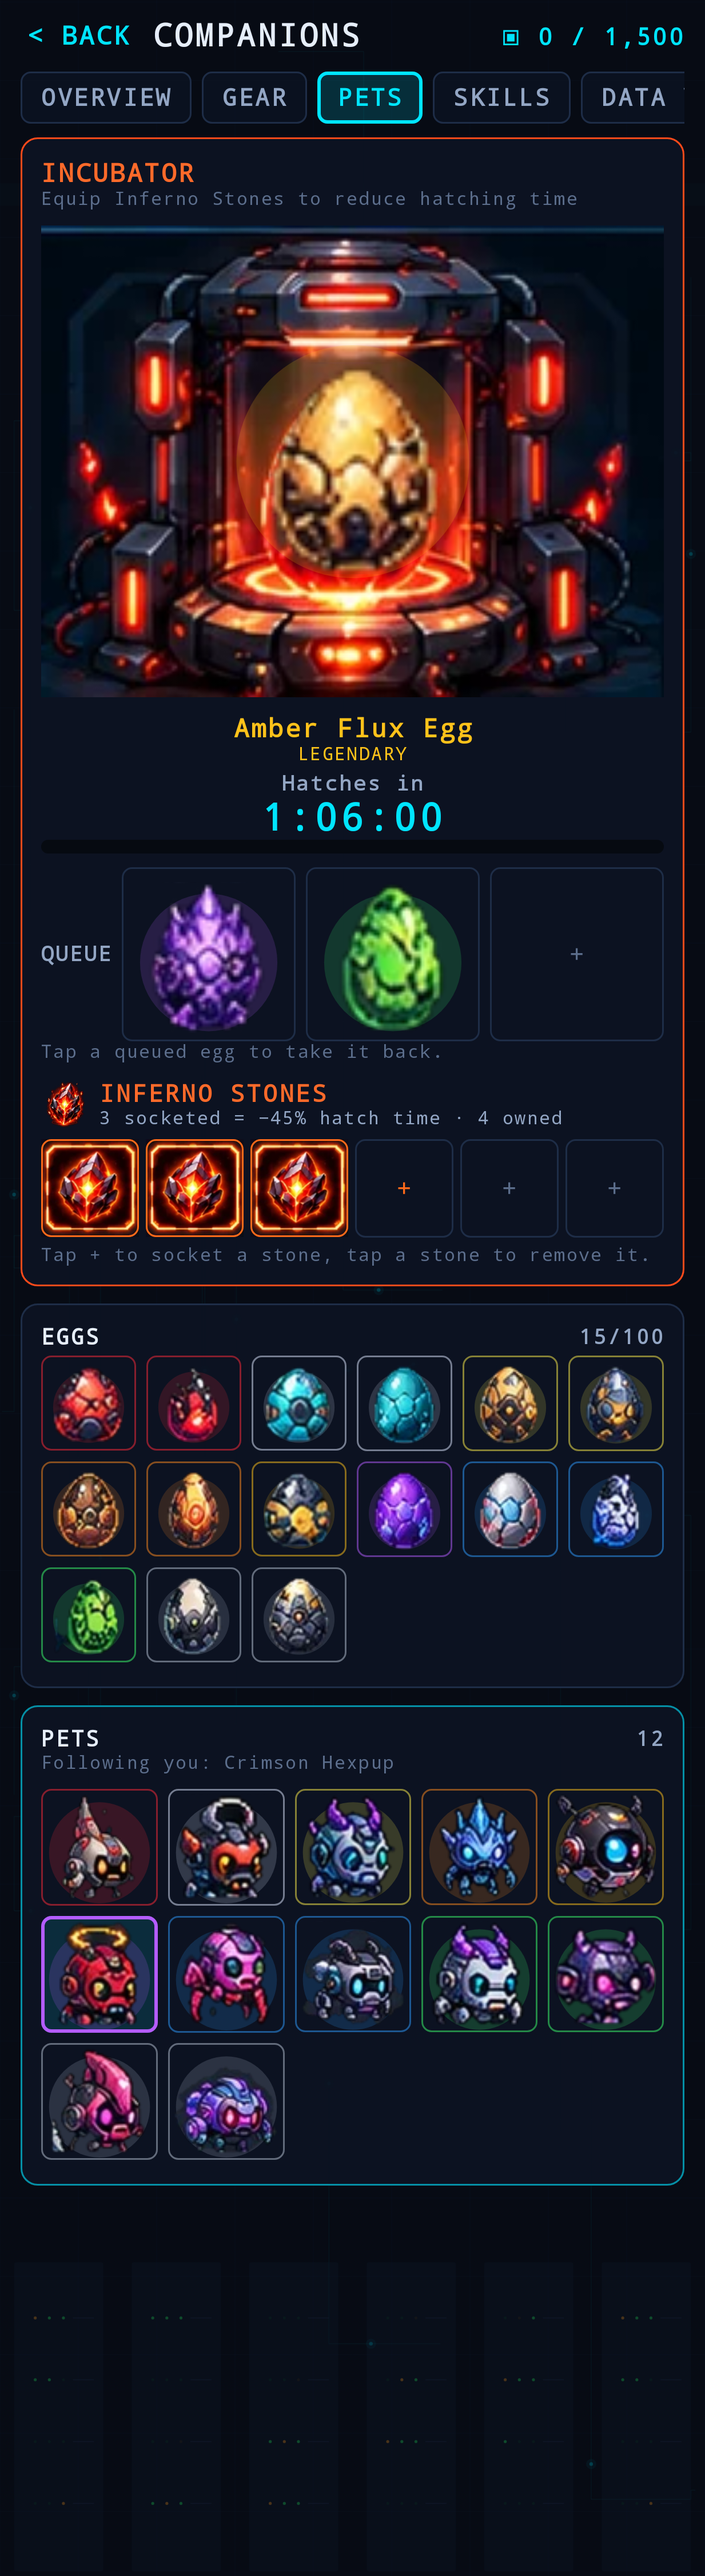
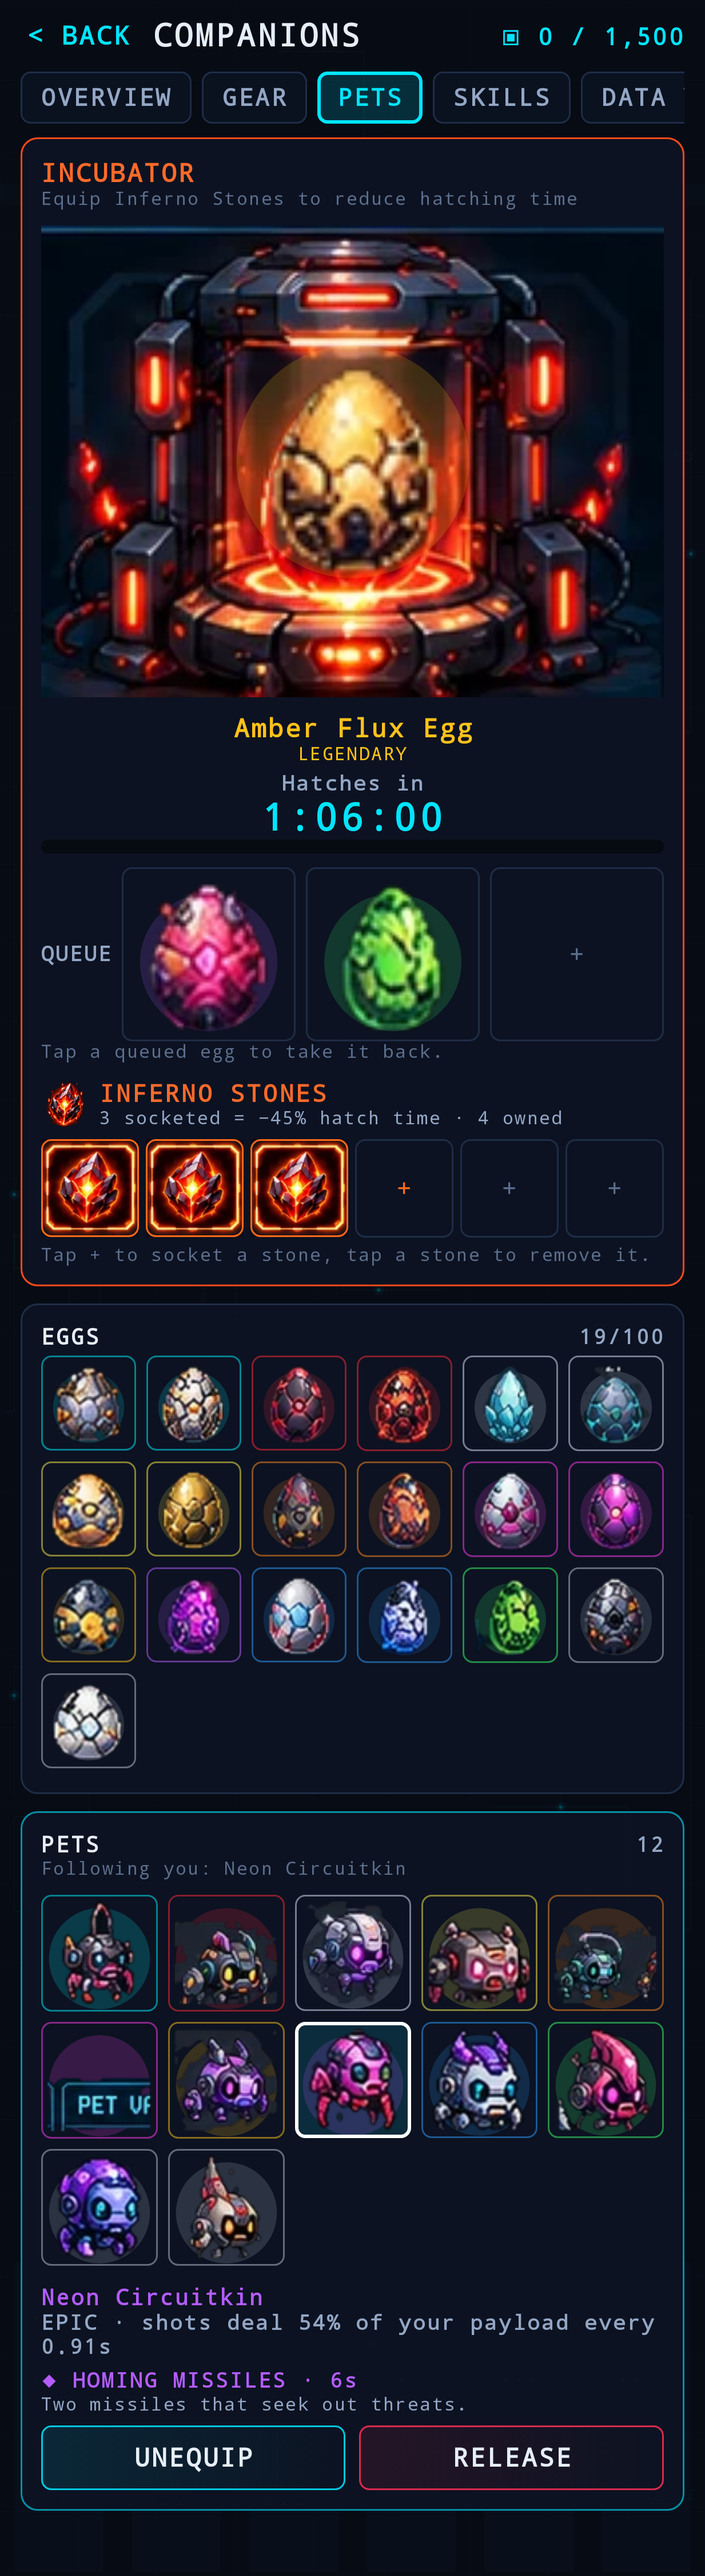
Pets: open on the equipped pet; renders for the hatch reveal and the PC layout
Claude-Session: https://claude.ai/code/session_01J4fYSi9rfQR62SLnfyrDCN

diff --git a/app/src/test/java/com/cyberoperative/game/PetRenders.kt b/app/src/test/java/com/cyberoperative/game/PetRenders.kt
@@ -62,6 +62,29 @@ class PetRenders {
         save("pets_tab")
     }
 
+    @Test fun hatchReveal() {
+        assumeTrue(System.getProperty("cyberop.renderPreviews") == "true")
+        val ctx = ApplicationProvider.getApplicationContext<android.app.Application>()
+        val repo = SaveRepository(ctx)
+        stocked(repo)
+        repo.update { it.copy(pets = it.pets + Pet(777L, 40, GearRarity.ENCRYPTED, fresh = true)) }
+        compose.mainClock.autoAdvance = false
+        compose.setContent { CyberOperativeTheme { CharacterScreen(repo, {}, startTab = CharTab.PETS) } }
+        compose.mainClock.advanceTimeBy(600)
+        save("pets_hatch_reveal")
+    }
+
+    @Test @Config(qualifiers = "w1280dp-h720dp-mdpi", sdk = [35]) fun petsTabWide() {
+        assumeTrue(System.getProperty("cyberop.renderPreviews") == "true")
+        val ctx = ApplicationProvider.getApplicationContext<android.app.Application>()
+        val repo = SaveRepository(ctx)
+        stocked(repo)
+        compose.mainClock.autoAdvance = false
+        compose.setContent { CyberOperativeTheme { CharacterScreen(repo, {}, startTab = CharTab.PETS) } }
+        compose.mainClock.advanceTimeBy(600)
+        save("pets_tab_wide")
+    }
+
     @Test fun petInRun() {
         assumeTrue(System.getProperty("cyberop.renderPreviews") == "true")
         val ctx = ApplicationProvider.getApplicationContext<android.app.Application>()

diff --git a/app/src/main/java/com/cyberoperative/game/ui/menu/PetsTab.kt b/app/src/main/java/com/cyberoperative/game/ui/menu/PetsTab.kt
@@ -66,7 +66,8 @@ fun hatchClock(ms: Long): String {
 fun PetsTab(save: SaveRepository, p: PlayerProfile, wide: Boolean) {
     val host = com.cyberoperative.game.idle.IdleRuns.host
     var selEgg by remember { mutableStateOf<Long?>(null) }
-    var selPet by remember { mutableStateOf<Long?>(null) }
+    // Opens on the equipped pet, so its stats and abilities show right away.
+    var selPet by remember { mutableStateOf(p.activePet.takeIf { it != 0L }) }
     var note by remember { mutableStateOf("") }
     // Catch up when the page opens; read network time if the clock is waiting on it.
     LaunchedEffect(Unit) {
